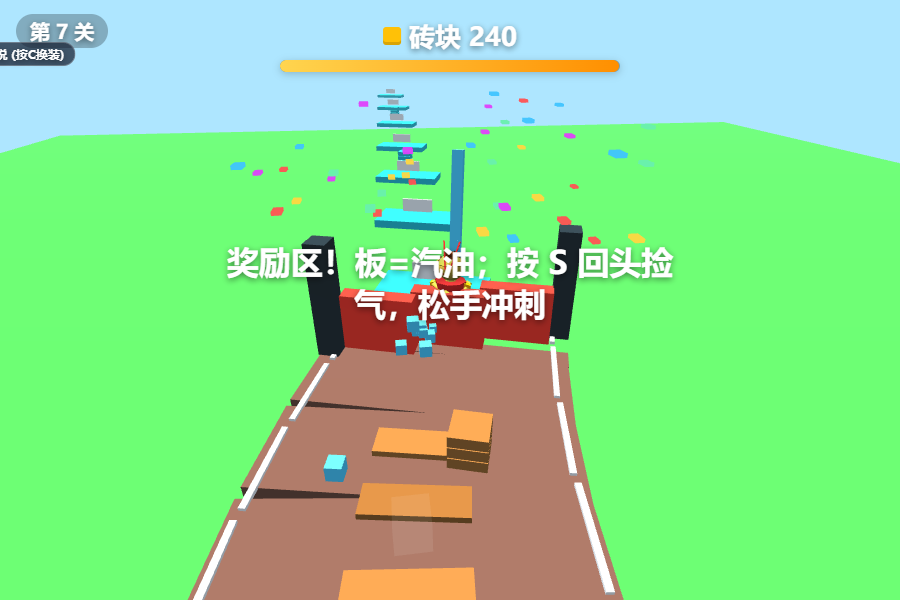
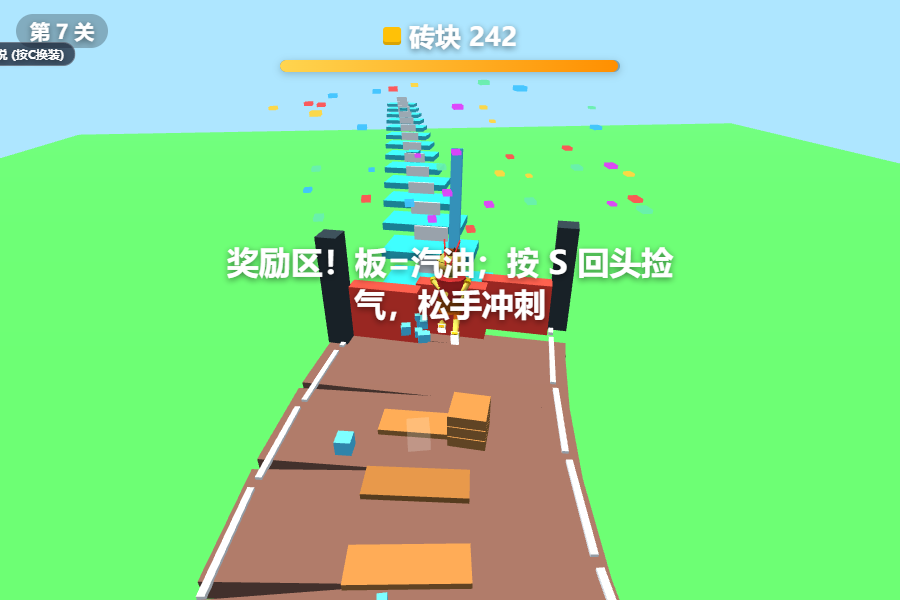
Cocos AI对手补齐(M4双端闭环,此前仅web有) + M11倍率7→14档(x2~x15全区间,balance真曲线20气x5→x6/50+两垛→x15) + M12名次计分(名次=1+先过终点对手数,基础100/60/30/10x倍率+余板) + C3铺路机头微扬; verify-web 22/22(bonus-pads-14/rank-base-lock); tsc0/smoke/sim38全绿

diff --git a/assets/scripts/GameApp.ts b/assets/scripts/GameApp.ts
@@ -13,14 +13,14 @@ import { cfgForLevel, itemsFor } from './LevelCurve';
 import { createProgress, ProgressStore } from './Progression';
 import { cycleTheme, currentTheme } from './Theme';
 import { applyTheme } from './BoxFactory';
-import { applyCharTheme, setCharacterSkin, getCharacterSkin, CharSkinType, CHAR_SKINS } from './CharacterRig';
+import { applyCharTheme, setCharacterSkin, getCharacterSkin, CharSkinType, CHAR_SKINS, animateCharacter } from './CharacterRig';
 import { curveFromCfg, bendX, headingAt, CurveState } from './CurvePath';
 import {
-  BONUS_BACK_SPEED, genBonusPads, genGasPiles, createBonusRun, stepBonusRun, bonusScore, bonusStars,
+  BONUS_BACK_SPEED, genBonusPads, genGasPiles, createBonusRun, stepBonusRun, bonusScore, bonusStars, rankBase,
   BonusPad, BonusPile, BonusRunState,
 } from './BonusRun';
 import { AudioMgr } from './AudioMgr';
-import { TrackBuilder, RuntimePickup } from './TrackBuilder';
+import { TrackBuilder, RuntimePickup, Opponent } from './TrackBuilder';
 import { CameraFollow } from './CameraFollow';
 import { GameUI } from './GameUI';
 import { tweenPos, clamp } from './util';
@@ -86,6 +86,10 @@ export class GameApp extends Component {
   private bonusPiles: BonusPile[] = [];
   private bonusEntryZ = 0;
   private bonusPileDone: boolean[] = []; // 气垛下沉动画是否已播（防重复 tween 已销毁节点）
+  private bonusRank = 1;   // M12：过终点名次（1=第一）
+  private bonusBase = 100; // M12：名次基础分（第1名 100）
+  // AI 对手竞速（原版标志性机制，与浏览器版同构）
+  private opponents: Opponent[] = [];
   private heldBack = false; // S/↓ 按住=奖励区回头
   // M8：板尽差一步扒住边缘爬上去
   private climbT = 0;
@@ -184,6 +188,9 @@ export class GameApp extends Component {
     this.bonusPiles = [];
     this.bonusEntryZ = 0;
     this.bonusPileDone = [];
+    this.bonusRank = 1;
+    this.bonusBase = 100;
+    this.opponents = this.track.buildOpponents(this.cfg); // AI 对手（原版标志性机制）
     this.dragging = false;
     this.fell = false;
     this.bridgeT = 0;
@@ -389,6 +396,7 @@ export class GameApp extends Component {
       this.checkGate(z);
       this.checkIslands(x, z); // 孤岛拾取（原版机制）
     }
+    this.updateOpponents(dt); // AI 对手竞速（原版标志性机制）
     this.track.syncStack(this.bricks);
     const charState = this.state === 'fall' ? 'drowned'
       : this.state === 'run' ? (this.bridgeT > 0 ? 'bridging' : 'running')
@@ -540,6 +548,74 @@ export class GameApp extends Component {
     setTimeout(() => { director.getScheduler()?.setTimeScale(1); }, 550);
   }
 
+  // ===== AI 对手竞速（原版标志性机制，与浏览器版 updateOpponents 同构） =====
+  // 规则：3 个对手同时起跑，各自带板铺捷径；速度比玩家快的撞飞玩家（抢板），
+  // 玩家比对手快的撞飞对手并没收其携带板子；断崖/板尽同样会坠落。
+  private updateOpponents(dt: number): void {
+    for (const o of this.opponents) {
+      if (!o.alive || o.finished) continue;
+      o.changeT -= dt;
+      if (o.changeT <= 0) {
+        o.changeT = 1.2 + Math.random() * 2;
+        // 80% 沿主路跑，20% 尝试切弯抄近路
+        o.targetX = Math.random() < 0.8
+          ? (Math.random() * 2 - 1) * this.cfg.trackHalfWidth * 0.7
+          : (Math.random() * 2 - 1) * (this.cfg.trackHalfWidth + 2.2);
+      }
+      o.x += (o.targetX - o.x) * Math.min(1, dt * 2.2);
+      const adv = o.speed * dt;
+      o.z += adv;
+
+      // 铺板经济：离开主路持续耗板，板尽坠落
+      if (!this.track.isOnMainRoad(o.x, o.z)) {
+        if (o.bricks > 0) {
+          o.bricks -= (this.cfg.plankCostPerMeter ?? 1) * adv;
+          if (Math.random() < adv / (this.cfg.plankStride ?? 0.6)) this.track.spawnPlank(o.z, o.x); // M5：也是持久地面
+        } else { this.knockOutOpponent(o, '板尽坠落'); continue; }
+      }
+
+      // 与玩家碰撞：快者撞飞慢者并抢板
+      if (this.state === 'run' && Math.abs(o.z - this.player.position.z) < 0.85 && Math.abs(o.x - this.laneX) < 0.85) {
+        if (this.speed > o.speed * 1.02) {
+          this.knockOutOpponent(o, '被你撞飞');
+          const loot = Math.min(Math.floor(o.bricks), 6);
+          if (loot > 0) {
+            this.bricks += loot;
+            this.pickupPulse = 1.0;
+            this.ui?.setBricks(Math.floor(this.bricks));
+            console.log(`[ShortcutRun] 抢板 +${loot}`);
+          }
+        } else if (o.speed > this.speed * 1.02) {
+          this.knockOutOpponent(o, '对手撞飞了你'); // 与浏览器版一致：对手退场，玩家坠落
+          this.enterFall();
+          return;
+        }
+      }
+
+      if (o.z >= this.levelDef.gateZ - 0.5) {
+        o.finished = true;
+        o.finishT = this.elapsed; // M12 名次计分：记过终点时刻
+        continue;
+      }
+
+      o.root.setPosition(new Vec3(
+        bendX(o.z, this.curve) + o.x * Math.cos(headingAt(o.z, this.curve)), 0, o.z));
+      o.root.eulerAngles = new Vec3(0, headingAt(o.z, this.curve), 0);
+      o.runCycle += dt * (8 + o.speed * 0.7);
+      animateCharacter(o.rig, o.runCycle, o.targetX - o.x, Math.ceil(o.bricks), 'running', dt);
+    }
+  }
+
+  private knockOutOpponent(o: Opponent, why: string): void {
+    o.alive = false;
+    console.log(`[ShortcutRun] 对手退场:${why}`);
+    this.audio?.play('hit'); // J2：撞人顿挫
+    this.audio?.play('lose');
+    this.camFollow.addShake(0.12, 0.2);
+    const p = o.root.position;
+    tweenPos(o.root, 0.8, new Vec3(p.x, p.y - 6, p.z));
+  }
+
   // 孤岛：踩上就收板（原版经典的风险回报机制）
   private checkIslands(x: number, z: number): void {
     const gain = this.track.collectIsland(x, z);
@@ -561,6 +637,9 @@ export class GameApp extends Component {
   private enterBonus(): void {
     if (this.bonusActive) return;
     this.bonusActive = true;
+    // M12：名次 = 1 + 已过终点的对手数（对手先到=名次靠后，基础分衰减）
+    this.bonusRank = 1 + this.opponents.filter((o) => o.finishT != null && o.finishT <= this.elapsed).length;
+    this.bonusBase = rankBase(this.bonusRank);
     this.bonus = createBonusRun(this.bricks);
     this.bonusPads = genBonusPads(this.cfg);
     this.bonusPiles = genGasPiles(this.cfg);
@@ -595,7 +674,7 @@ export class GameApp extends Component {
     this.track.openGate();
     this.audio?.play('win');
     const timeSec = this.elapsed - this.runT0;
-    const score = bonusScore(b);
+    const score = bonusScore(b, this.bonusBase);
     this.pushTelemetry({
       level: this.levelNum, seed: this.curSeed, outcome: 'win',
       t: +timeSec.toFixed(2), bricksLeft: Math.floor(b.remainingPlanks),
@@ -604,8 +683,8 @@ export class GameApp extends Component {
     const r = this.prog.win(timeSec, Math.floor(b.remainingPlanks));
     const best = this.prog.state().best[this.levelNum];
     this.ui?.setResult(true, r.stars, timeSec, score, `${best.stars}★ ${best.time}s`);
-    this.ui?.showHint(`×${b.multiplier} 倍率！得分 ${score}`);
-    console.log(`[ShortcutRun] 奖励区结算：×${b.multiplier} 得分 ${score}（${bonusStars(b)}星线）`);
+    this.ui?.showHint(`第 ${this.bonusRank} 名 · ×${b.multiplier} 倍率！得分 ${score}`);
+    console.log(`[ShortcutRun] 奖励区结算：第${this.bonusRank}名 ×${b.multiplier} 得分 ${score}（${bonusStars(b)}星线）`);
     // 插屏节流：前 3 关不弹；通关 L3/L6/…（进 L4/L7 前）各 1 次（k1 §4）
     if (shouldInterstitialAfterWin(this.levelNum)) {
       void adSys.showInterstitial();

diff --git a/web-preview/index.html b/web-preview/index.html
@@ -935,6 +935,8 @@ function animateChar(char, runCycle, steerVelocity, carriedPlanks, state, delta,
   char.torso.position.y = 0.72 + Math.abs(stride) * 0.12;
   char.head.rotation.x = -char.torso.rotation.x * 0.8;
   char.head.rotation.y = -char.torso.rotation.y * 0.5;
+  // C3：铺路时机头微扬（看向前方要铺的路）
+  if (state === 'bridging') char.head.rotation.x -= 0.22;
   char.headbandRibbon.rotation.x = -0.35 + Math.sin(runCycle * 2.5) * 0.22;
   char.headbandRibbon.rotation.y = Math.cos(runCycle * 2) * 0.15;
   // 额外国风饰品动力学（翎毛/发带/混天绫随风摆动）
@@ -1051,6 +1053,7 @@ function buildLevel(cur) {
   // 奖励区状态整局重置（倍率台/气垛网格已随上面的 BOX 清扫回收；
   // bonusActive 不重置会导致下一局到终点不再进奖励区——修复潜在 bug）
   bonusActive = false; bonusState = null; bonusPads = []; bonusPiles = []; heldBack = false;
+  bonusRank = 1; bonusRankBase = 100; camPunchT = 0; // M12/C2 整局复位
   const w = cfg.trackHalfWidth * 2 + 0.6;
   // 跑道（按断崖分段）
   let z = 0;
@@ -1714,8 +1717,11 @@ function checkGate(z) {
 // 冲过终点不重开，进入奖励区：一排倍率悬浮台，剩余板子是汽油，每米烧 1.4 块，
 // 烧完即停，停在哪个台乘哪个倍率。分数 = 100×倍率 + 剩余板数。
 // M10（原版高分核心策略）：奖励区可回头——入口后埋着气垛，按 S 后退捡气再冲刺；
-// 倍率台站过即锁定不降。倍率台布局：×2@3 ×3@9 ×5@15.5 ×8@24 ×10@34 ×12@46.5 ×15@62
-const BONUS_MULTS = [2, 3, 5, 8, 10, 12, 15];
+// 倍率台站过即锁定不降。M11：14 档覆盖 ×2~×15（原版 15 岛全区间）。
+// 档位布局（间距 2.5+m*0.15）：×2@3 ×3@5.8 ×4@8.75 ×5@11.85 … ×15@51.1（需 ~72 板汽油）
+const BONUS_MULTS = [2, 3, 4, 5, 6, 7, 8, 9, 10, 11, 12, 13, 14, 15];
+// M12 名次计分：按过终点名次给基础分（第 1 名 100，与 BonusRun.ts RANK_BASE 一致）
+const RANK_BASE = [100, 60, 30, 10];
 const BONUS_BURN = 1.4;        // 每米烧板（回头也烧）
 const BONUS_BACK_LIMIT = -13;  // 回头最远（入口后 13m）
 const BONUS_BACK_SPEED = 0.65; // 回头速度系数
@@ -1726,11 +1732,13 @@ let bonusActive = false;
 let bonusBaseZ = 0;      // 进入奖励区时的 z（入口）
 let heldBack = false;    // S/↓ 按住=回头捡气
 let camPunchT = 0;       // C2：冲线推近剩余时间（秒，真实时间）
+let bonusRank = 1;       // M12：过终点名次（1=第一）
+let bonusRankBase = 100; // M12：名次基础分（第 1 名 100）
 
 function genBonusPads() {
   const pads = [];
   let z = 3;
-  for (const m of BONUS_MULTS) { pads.push({ z, mult: m }); z += 5 + m * 0.7; }
+  for (const m of BONUS_MULTS) { pads.push({ z, mult: m }); z += 2.5 + m * 0.15; }
   return pads;
 }
 
@@ -1747,6 +1755,9 @@ function genGasPiles() {
 function enterBonusRun() {
   if (bonusActive) return;
   bonusActive = true;
+  // M12：名次 = 1 + 已过终点的对手数（对手先到=名次靠后，基础分衰减）
+  bonusRank = 1 + opponents.filter((o) => o.finishT != null && o.finishT <= elapsed).length;
+  bonusRankBase = RANK_BASE[Math.min(bonusRank, RANK_BASE.length) - 1];
   bonusState = { traveled: 0, remainingPlanks: bricks, multiplier: 1, finished: false };
   bonusPads = genBonusPads();
   bonusPiles = genGasPiles();
@@ -1824,13 +1835,14 @@ function stepBonus(dt) {
 }
 
 function finishBonus() {
-  const score = 100 * bonusState.multiplier + Math.floor(bonusState.remainingPlanks);
+  // M12：名次基础分 × 倍率 + 余板（第 1 名 100 基础，名次越后基础越低）
+  const score = bonusRankBase * bonusState.multiplier + Math.floor(bonusState.remainingPlanks);
   floatText(`+${score}`, '#ffd54f'); // U2：结算飘分
   const stars = bonusState.multiplier >= 8 ? 3 : bonusState.multiplier >= 5 ? 2 : 1;
   showResult(true, `×${bonusState.multiplier} 倍率！`, stars,
-    `得分 ${score}（基础 100 × ${bonusState.multiplier} + 余板 ${Math.floor(bonusState.remainingPlanks)}）`,
+    `第 ${bonusRank} 名 · 得分 ${score}（基础 ${bonusRankBase} × ${bonusState.multiplier} + 余板 ${Math.floor(bonusState.remainingPlanks)}）`,
     '再来一局', () => { resultScreen.style.display = 'none'; syncLevel(); });
-  console.log(`[ShortcutRun] 结算: ×${bonusState.multiplier} 得分 ${score} ${stars}星`);
+  console.log(`[ShortcutRun] 结算: 第${bonusRank}名 ×${bonusState.multiplier} 得分 ${score} ${stars}星`);
   sfx.win();
 }
 
@@ -1860,7 +1872,7 @@ function buildOpponents() {
       rig, x, z,
       speed: cfg.runSpeed * (0.9 + i * 0.05),
       bricks: 24,
-      alive: true, finished: false,
+      alive: true, finished: false, finishT: null,
       targetX: x, changeT: Math.random() * 2, runCycle: i * 2.1,
     });
   }
@@ -1915,7 +1927,7 @@ function updateOpponents(dt) {
       }
     }
 
-    if (o.z >= level.gateZ - 0.5) { o.finished = true; continue; }
+    if (o.z >= level.gateZ - 0.5) { o.finished = true; o.finishT = elapsed; continue; } // M12：记过终点时刻
 
     o.rig.position.set(bendX(o.z) + o.x * Math.cos(headingAt(o.z)), 0, o.z);
     o.rig.rotation.y = headingAt(o.z);
@@ -2084,6 +2096,8 @@ window.__game = {
       remaining: Math.round(bonusState.remainingPlanks),
       mult: bonusState.multiplier, finished: bonusState.finished,
       pilesTaken: bonusPiles.filter((p) => p.taken).length,
+      rank: bonusRank, base: bonusRankBase, // M12
+      pads: bonusPads.length,              // M11
     } : null,
     islandTaken: islands.filter((i) => i.taken).length,
     opponents: opponents.filter((o) => o.alive).length,

diff --git a/assets/scripts/BonusRun.ts b/assets/scripts/BonusRun.ts
@@ -29,14 +29,15 @@ export const BONUS_BURN = 1.4;        // 每米烧板（汽油费率，双端一
 export const BONUS_BACK_LIMIT = -13;  // 回头最远距离（入口后 13m）
 export const BONUS_BACK_SPEED = 0.65; // 回头速度系数（冲刺 1.0）
 
-// 倍率台布局：从近到远 ×2 ×3 ×5 ×8 ×10 ×12 ×15（原版为 15 个岛，取 7 档够表达）
+// M11（原版 15 个倍率岛）：加密到 14 档覆盖 ×2~×15 全区间（原版攻略实锤极值 ×2~×15）。
+// 间距 = 2.5 + m*0.15：档差清晰且 ×15@51m 仅需 ~72 板汽油（99 气/50 气+两垛都够得到）
 export function genBonusPads(cfg: Cfg): BonusPad[] {
-  const mults = [2, 3, 5, 8, 10, 12, 15];
+  const mults = [2, 3, 4, 5, 6, 7, 8, 9, 10, 11, 12, 13, 14, 15];
   const pads: BonusPad[] = [];
   let z = 3;
   for (const m of mults) {
     pads.push({ z, multiplier: m });
-    z += 5 + m * 0.7; // 高倍率台更远，冲刺有渐进感
+    z += 2.5 + m * 0.15; // 高倍率台更远，冲刺有渐进感
   }
   return pads;
 }
@@ -77,9 +78,15 @@ export function stepBonusRun(s: BonusRunState, pads: BonusPad[], piles: BonusPil
   return true;
 }
 
-// 结算：100 × 倍率 + 剩余板数（原版基础分 100）
-export function bonusScore(s: BonusRunState): number {
-  return 100 * s.multiplier + Math.floor(s.remainingPlanks);
+// M12 名次计分（原版规则）：按过终点名次给基础分，第 1 名 100（倍率分的乘数基座）
+export const RANK_BASE = [100, 60, 30, 10];
+export function rankBase(rank: number): number {
+  return RANK_BASE[Math.min(Math.max(1, Math.round(rank)), RANK_BASE.length) - 1];
+}
+
+// 结算：名次基础分 × 倍率 + 剩余板数（原版基础分 100 仅第 1 名）
+export function bonusScore(s: BonusRunState, base = 100): number {
+  return base * s.multiplier + Math.floor(s.remainingPlanks);
 }
 
 // 星级：≥×8 三星，≥×5 二星，其余一星（与 progression 的 PAR 线互补，按倍率评）

diff --git a/assets/scripts/TrackBuilder.ts b/assets/scripts/TrackBuilder.ts
@@ -14,6 +14,19 @@ import { curveFromCfg, bendX, headingAt, secant, CurveState } from './CurvePath'
 import type { BonusPad, BonusPile } from './BonusRun';
 
 const SMOKE_MAX = 60; // 铺路烟雾粒子池上限（与浏览器版一致）
+export const OPPONENT_COUNT = 3; // AI 对手数（原版标志性机制，与浏览器版一致）
+
+export interface Opponent {
+  root: Node;
+  rig: CharRig;
+  x: number; z: number;
+  speed: number;
+  bricks: number;
+  alive: boolean; finished: boolean;
+  finishT: number | null; // 过终点时刻（M12 名次计分用）
+  targetX: number; changeT: number;
+  runCycle: number;
+}
 
 interface SmokeState {
   life: number; dur: number;
@@ -192,6 +205,29 @@ export class TrackBuilder extends Component {
         n.position.z + (Math.random() - 0.5) * 1.2,
       ), () => n.destroy());
     }
+  }
+
+  // ===== AI 对手竞速（原版标志性机制，2026-09-23 Cocos 端补齐，与浏览器版同构） =====
+  // 3 个对手同时起跑、各自铺板经济；铺的板也是持久地面（spawnPlank 统一记 trail，M5）
+  buildOpponents(cfg: Cfg): Opponent[] {
+    const list: Opponent[] = [];
+    for (let i = 0; i < OPPONENT_COUNT; i++) {
+      const root = new Node(`Opponent${i}`);
+      root.parent = this.node;
+      const rig = buildCharacter(root);
+      const x = (i - (OPPONENT_COUNT - 1) / 2) * 1.1;
+      const z = -1.2 - i * 1.0;
+      root.setPosition(new Vec3(bendX(z, this.curve) + x, 0, z));
+      root.eulerAngles = new Vec3(0, headingAt(z, this.curve), 0);
+      list.push({
+        root, rig, x, z,
+        speed: cfg.runSpeed * (0.9 + i * 0.05),
+        bricks: 24,
+        alive: true, finished: false, finishT: null,
+        targetX: x, changeT: Math.random() * 2, runCycle: i * 2.1,
+      });
+    }
+    return list;
   }
 
   isOnMainRoad(x: number, z: number): boolean {

diff --git a/assets/scripts/CharacterRig.ts b/assets/scripts/CharacterRig.ts
@@ -454,6 +454,8 @@ export function animateCharacter(r: CharRig, runCycle: number, steerVel: number,
   );
   r.torso.setPosition(new Vec3(r.torso.position.x, 0.72 + Math.abs(stride) * 0.12, r.torso.position.z));
   rot(r.head, -r.torso.eulerAngles.x * 0.8, -r.torso.eulerAngles.y * 0.5);
+  // C3：铺路时机头微扬（看向前方要铺的路）
+  if (state === 'bridging') rot(r.head, -r.torso.eulerAngles.x * 0.8 - 0.22, -r.torso.eulerAngles.y * 0.5);
   rot(r.ribbon, -0.35 + Math.sin(runCycle * 2.5) * 0.22, Math.cos(runCycle * 2) * 0.15);
   // 国风飘带/雉翎动力学模拟
   const accH = r.head.getChildByName('SkinAccHead');

diff --git a/docs/replica-gap.md b/docs/replica-gap.md
@@ -10,15 +10,15 @@
 | M1 | 捡 floorboards，头顶/手臂堆叠显示，飘字报数 | ✅ 已复刻（双手捧 + 飘字） | 无 |
 | M2 | 板子铺路 = 核心 shortcut 机制，铺了就是持久地面 | ✅ 已复刻 | 无 |
 | M3 | 铺路时角色加速 + 烟雾拖尾 | ✅ 已复刻（加速 + 60 粒子池烟雾拖尾，双端） | 无 |
-| M4 | 撞对手：快者把慢者撞出局，**掉落板并入胜者背包** | ⚠ 已复刻但**仅 web 端**（Cocos 无 AI 对手） | 双端缺口 |
+| M4 | 撞对手：快者把慢者撞出局，**掉落板并入胜者背包** | ✅ 已复刻（**双端**：2026-09-23 Cocos 补齐，3 对手同起跑/铺板经济/撞飞抢板） | 无 |
 | M5 | 可以走/蹭对手铺的路（别人的板子也是地面） | ✅ 已复刻（layPlank 统一记 plankTrail，对手铺的板也是持久地面） | 无 |
 | M6 | 板子几秒后补充刷新 | ✅ 已复刻（5 秒原地复活，双端；加速鞋一次性） | 无 |
 | M7 | 孤岛：主路外平台 + 大量板子 | ✅ 已复刻 | 无 |
 | M8 | 板尽最后一跃，可落边缘并爬上去 | ✅ 已复刻（逼近路口 ±0.65m 扒边 0.55s 攀爬态+双臂上伸姿势，双端） | 无 |
 | M9 | 赛道弯曲、有分支 | ⚠ 弯道有，**分支无** | P2（工作量极大） |
 | M10 | 终点倍率奖励区 ×2~×15，**可以回头多捡板再冲** | ✅ 已复刻（入口后气垛 ×2 + 前方 ×2，S 回头捡气，倍率锁定不降） | 无 |
-| M11 | 15 个倍率岛 | ⚠ 我方 7 档 | P1 |
-| M12 | 名次计分（第一名 100 分基础） | ⚠ 固定 100 分 | P1 |
+| M11 | 15 个倍率岛 | ✅ 已复刻（14 档覆盖 ×2~×15 全区间，间距 2.5+m×0.15；真曲线 3→×2 / 8→×3 / 20→×6 / 50→×15） | 无 |
+| M12 | 名次计分（第一名 100 分基础） | ✅ 已复刻（名次=1+先过终点对手数；基础分 100/60/30/10 × 倍率 + 余板） | 无 |
 | M13 | 板子会“堆到天高”（视觉夸张） | ✅ 已复刻（12→18 层，层距收紧，双端） | 无 |
 
 ## 二、镜头语言差距
@@ -27,7 +27,7 @@
 |---|---|---|---|
 | C1 | 第三人称追尾，**低机位斜后**（约 30-40° 俯视） | 俯视 6.8m/8.8m 偏俯 | 待手感调 |
 | C2 | **冲线时有慢动作+推近** | ✅ 已复刻（双端：0.35~0.4s 慢动作 + 相机压低拉近 0.8s） | 无 |
-| C3 | 铺路时机头微扬 | ❌ 无 | P2 |
+| C3 | 铺路时机头微扬 | ✅ 已复刻（bridging 时 head 上抬 0.22rad，双端） | 无 |
 
 ## 三、UI 布局差距
 

diff --git a/docs/AI-HANDOFF.md b/docs/AI-HANDOFF.md
@@ -160,3 +160,10 @@ G1 门禁：用户试玩“还想再来一把”= 立项。门禁不过，谁都
   - **juice 批**：J2 撞人音效（SfxSynth+web 内联同步加 `hit` 双音，smoke 漂移锁已扩——**仅 web**，Cocos 无 AI 对手）；J3 落水水花（双端，白/青粒子上炸）；J4 冲线彩带（双端，24~40 片飘落）；C2 冲线慢动作+推近（双端：setTimeScale 0.35 约 0.45s + CameraFollow.punch 机位压低拉近 0.8s）；U2 结算飘分（web floatText +score）。
   - **诚实标注**：**M4 AI 对手整套仅 web 端**（Cocos 侧从未实现对手，replica-gap M4 行已从 ✅ 改为 ⚠双端缺口）；Cocos 补对手是大工程（克隆 rig+经济+碰撞），留待排期。
   - **回归**：tsc 0 / smoke / sim 38 / verify-web 20/20 全绿。
+- 2026-09-23 | step-5-preview | **Cocos AI 对手补齐（M4 双端闭环）+ M11 倍率加密 + M12 名次计分 + C3 机头微扬**：
+  - **Cocos 对手（此前仅 web）**：`TrackBuilder.buildOpponents`（buildCharacter 每对手独立 rig）+ `GameApp.updateOpponents/knockOutOpponent` 与浏览器版逐行同构（80% 主路/20% 抄近、铺板经济走 `spawnPlank` 天然持久地面 M5、撞飞抢板 loot≤6、板尽退场、过终点记 finishT）；J2 撞人音效同步生效。
+  - **M11**：倍率档 7→14（×2~×15 全区间），间距公式 5+m×0.7 → 2.5+m×0.15；balance 真曲线 3气→×2 / 8→×3 / 20→×6 / 50气+两垛→×15（原 7 档时 20 气只能 ×5）。
+  - **M12**：名次=1+先过终点的对手数，基础分 100/60/30/10（BonusRun.ts rankBase），结算=基础×倍率+余板；verify 加 `rank-base-lock` 关系断言。
+  - **C3**：bridging 时 head 上抬 0.22rad（双端 animateChar/CharacterRig）。
+  - **回归**：tsc 0 / smoke / sim 38 / verify-web **22/22**（新增 bonus-pads-14 / rank-base-lock）；bonus-balance 曲线重跑。
+  - replica-gap 剩余：M9 分支路径（P2 大工程）/ C1 低机位（待 G1 手感）。

diff --git a/docs/PROGRESS.md b/docs/PROGRESS.md
@@ -43,6 +43,8 @@
 | 完全复刻差距清单（机制/镜头/UI/juice 五维） | ✅ | `docs/replica-gap.md`，**G1 前 P0 全部清零** |
 | P1 批：M6 板刷新 / M8 扒边攀爬 / M13 堆到天高 | ✅ | 双端；verify pickup-respawn/edge-grab 断言 |
 | juice 批：J2 撞人音效(web) / J3 水花 / J4 彩带 / C2 冲线慢动作推近 / U2 飘分 | ✅ | 双端（J2 限 web，M4 对手整套仅 web 已标注） |
+| Cocos AI 对手补齐（M4 双端闭环：3 对手/铺板经济/撞飞抢板） | ✅ | TrackBuilder.buildOpponents + GameApp.updateOpponents，与 web 逐行同构 |
+| M11 倍率 14 档 ×2~×15 + M12 名次计分(100/60/30/10) + C3 铺路机头微扬 | ✅ | verify 22/22；balance 曲线 3→×2/8→×3/20→×6/50→×15 |
 
 ## 质量数据（QA 口径）
 
